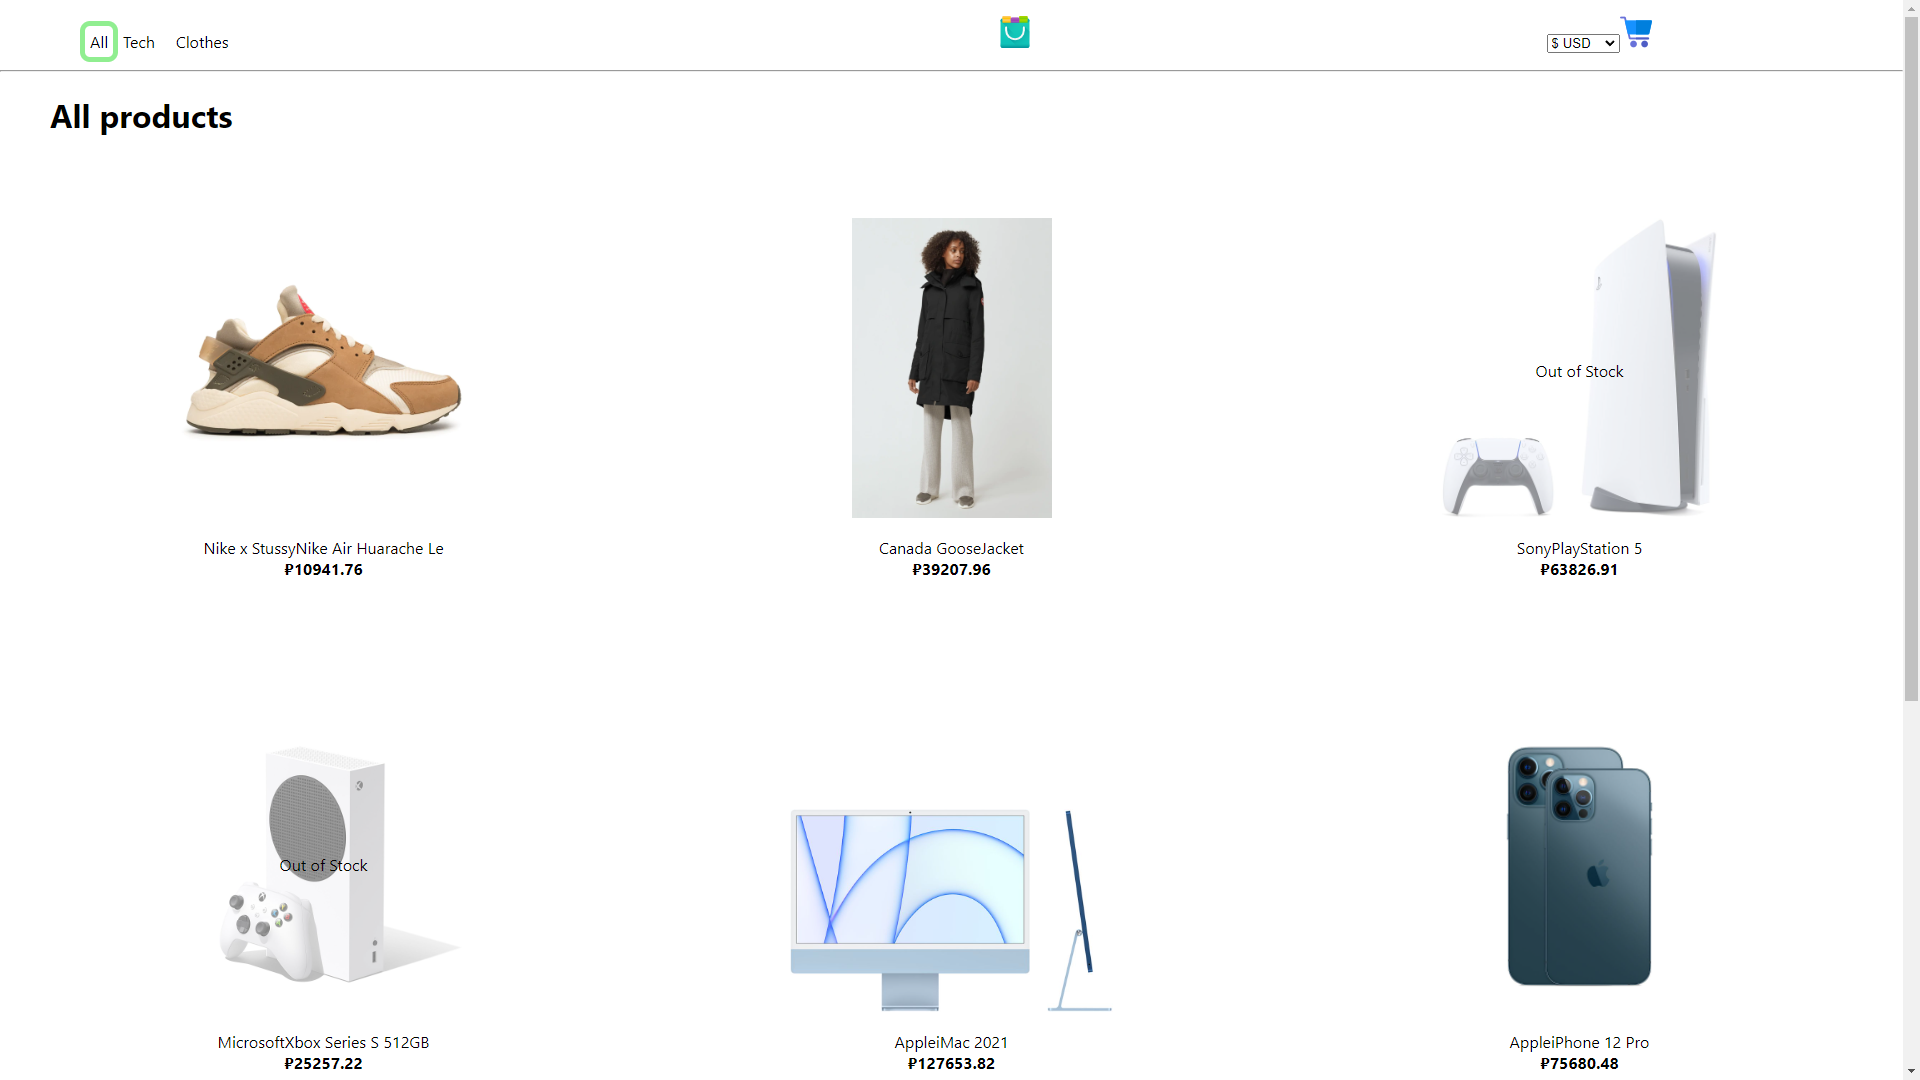
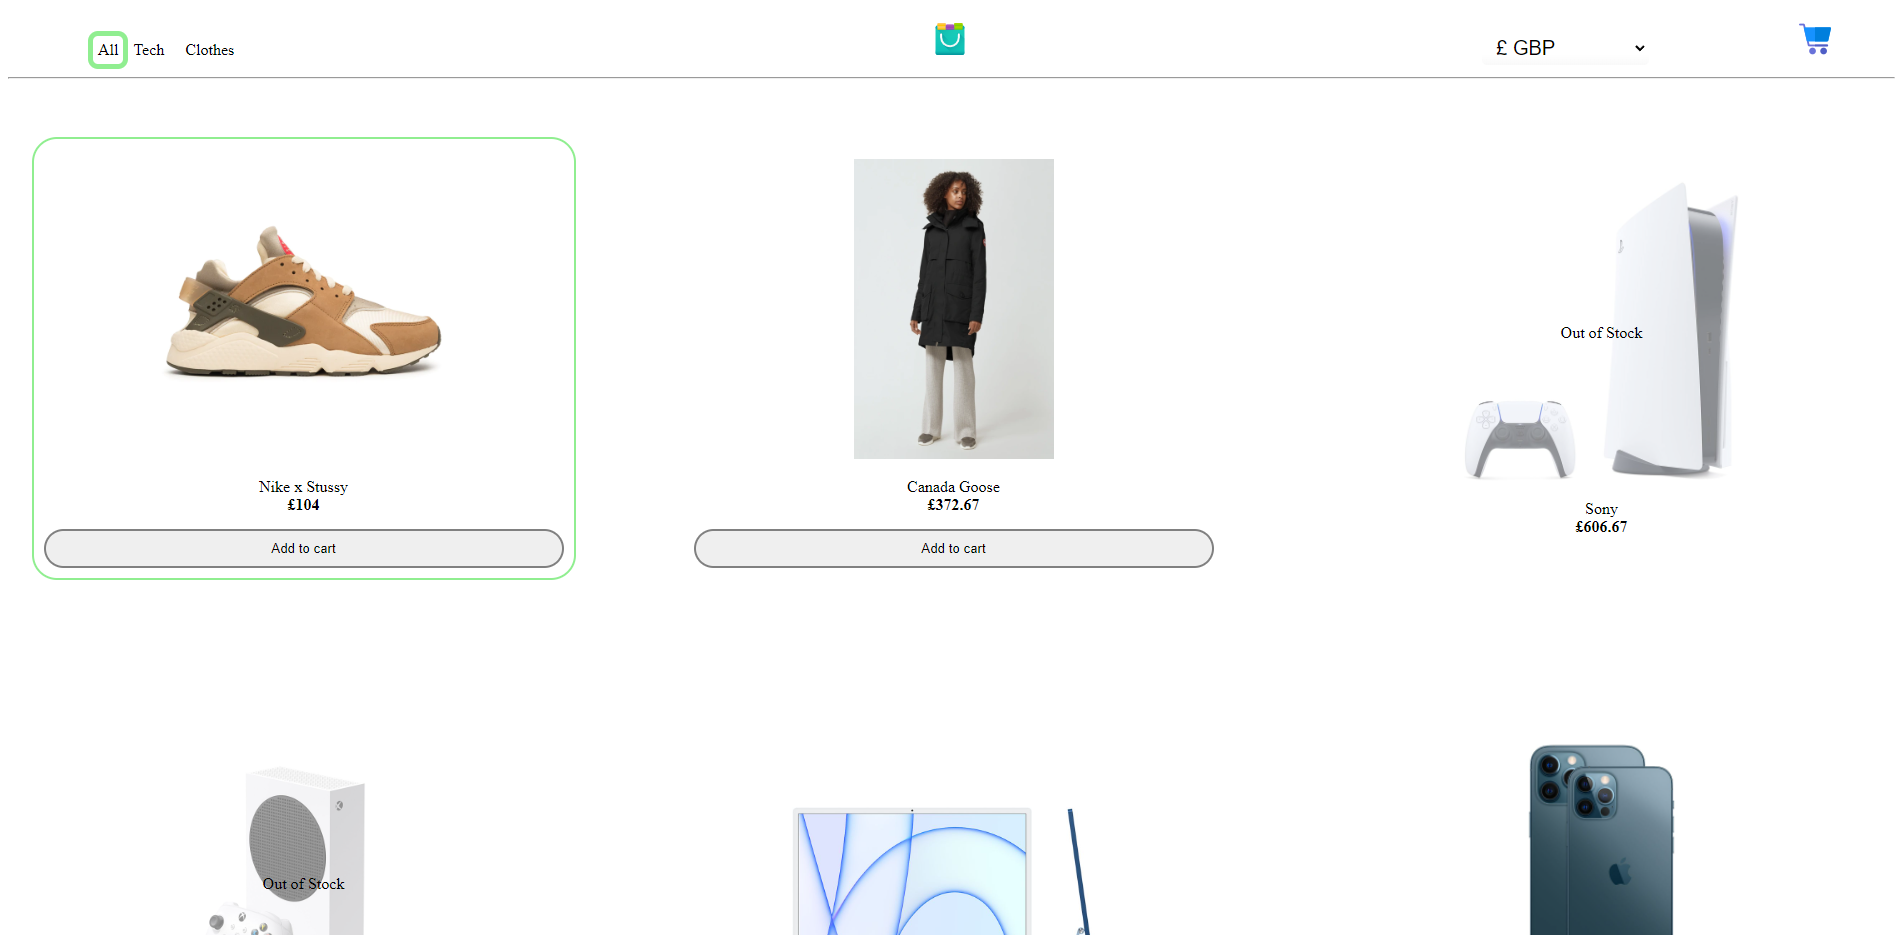
images uploaded

diff --git a/README.md b/README.md
@@ -29,6 +29,10 @@ Make a store webpage that has cart and currency changing ability
 ![Source code](pictures/DetailedView.PNG)
 * Currency Change
 ![Source code](pictures/CurrencyChange.PNG)
+* MiniCart
+![Source code](pictures/MiniCart.png)
+* Cart
+![Source code](pictures/Cart.PNG)
 
 </br>
 
